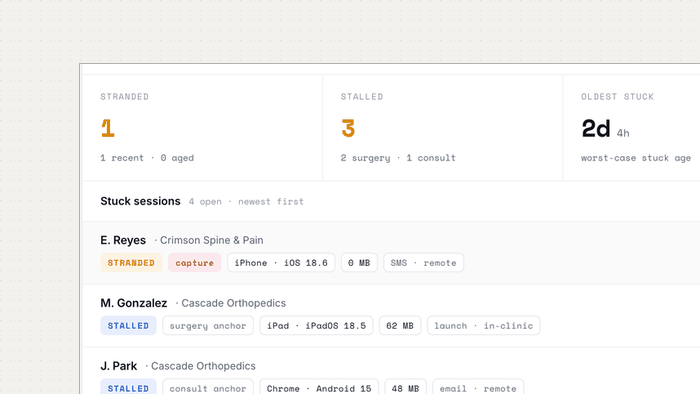
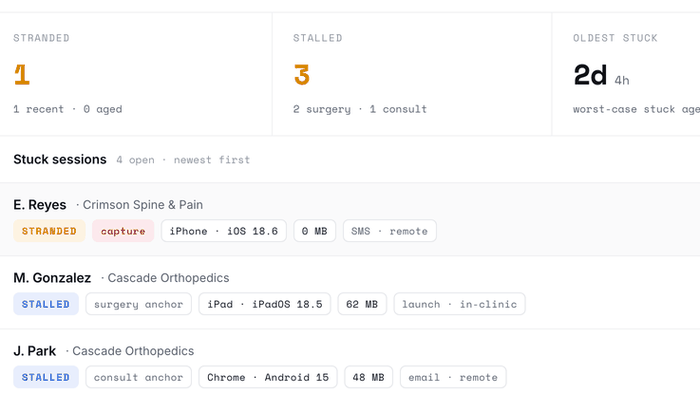
Drop the mat behind the proof images; full bleed instead
The dot-matrix ground I put behind each thumbnail, with the artwork inset at the
top-left and bleeding off the bottom-right, was meant to make seven very
different sources read as a set. Inside a card that already has its own inset
border it just looked like every image had been nudged out of place, identically,
which is indistinguishable from a bug.

The images now fill their frames edge to edge. Coherence comes from consistent
cropping and subject scale instead of a decorative ground.

Two sources also changed while I was in there. Step Up Your Game was landing on
an awkward seam between two slides and now uses the phone-in-hand opener. Data +
Design was a dashboard with so much of its own white padding that it read as
inset no matter what; it is now the manufacturing cost board, whose headline
figures are among the few things in that case study that survive being 240px
wide. Alt text updated to match.

Card is 317px and the console 869px on all seven slides.

diff --git a/index.html b/index.html
@@ -571,7 +571,7 @@
             alt:'The research cockpit: a readiness gauge, a review pipeline, and two flagged findings.' },
           { n:'Data + Design', href:'/work/data-and-design.html', img:'/images/thumbs/data.png',
             why:'Dashboards leaders actually use, and a chart type invented because the others lied.',
-            alt:'A collection of dashboards grouped by the decision each one supports.' }
+            alt:'A manufacturing cost dashboard: three headline cost metrics above a breakdown by driver.' }
         ] }
     ];    var ticks = document.getElementById('ticks');
     if(ticks){
